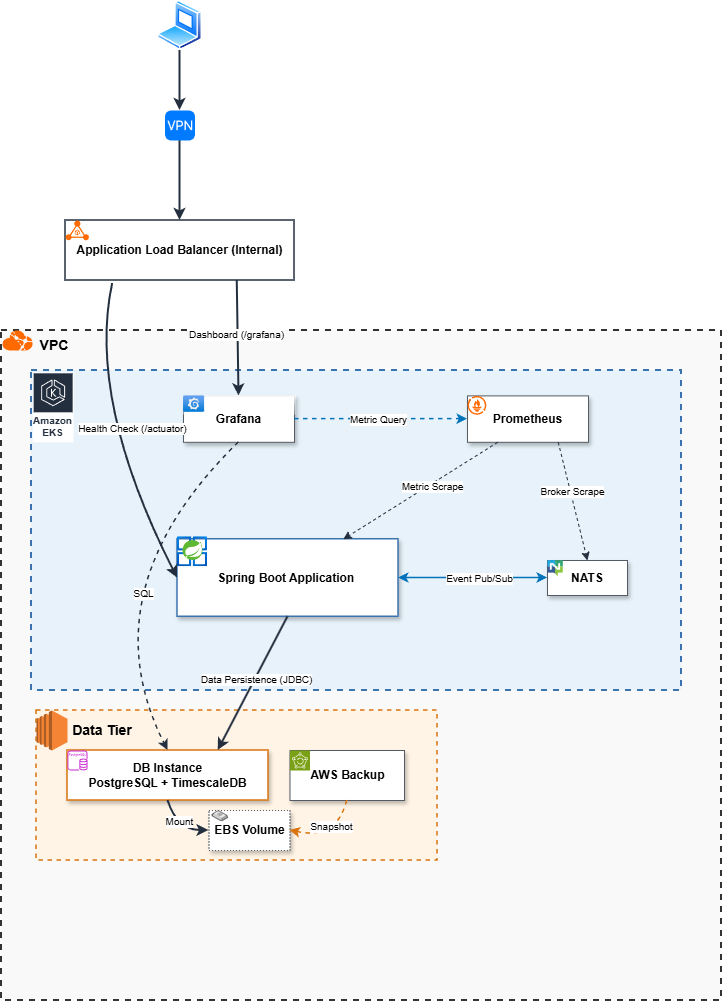
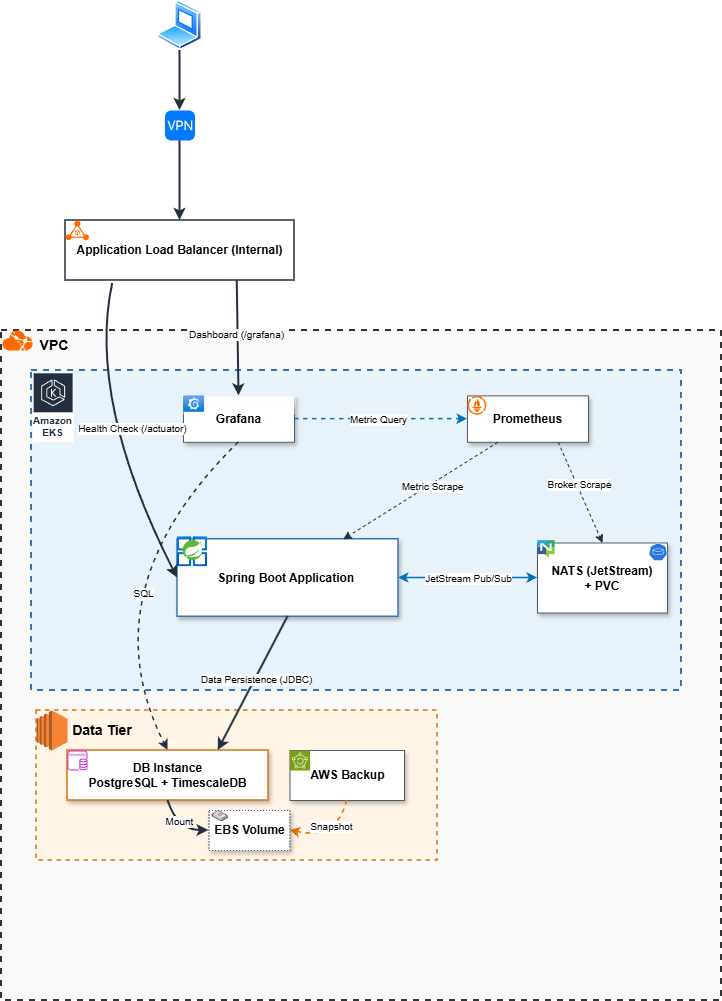
NATS JetStream 도입 으로 인한 수정

Changed region(s): [[0.7313, 0.4645, 0.9446, 0.6194], [0.5789, 0.5574, 0.7008, 0.5884]]

diff --git a/docs/task-a/README.md b/docs/task-a/README.md
@@ -9,7 +9,7 @@
 |---|---|---|
 | [`configmap.yaml`](configmap.yaml) | ConfigMap | 앱 환경 설정 (NATS_URL, 외부 DB 주소 등) |
 | [`secret.yaml`](secret.yaml) | Secret | DB password |
-| [`nats.yaml`](nats.yaml) | Deployment + Service | NATS 브로커 |
+| [`nats.yaml`](nats.yaml) | StatefulSet + Service + PVC | NATS 브로커 (JetStream 영속화 + prometheus-nats-exporter 사이드카) |
 | [`app.yaml`](app.yaml) | Deployment + Service | 이벤트 생성기 앱 (replicas 3) |
 | [`grafana.yaml`](grafana.yaml) | Deployment + Service | Grafana 시각화 대시보드 |
 | [`grafana-pvc.yaml`](grafana-pvc.yaml) | PersistentVolumeClaim | Grafana 대시보드·사용자 설정 영구 저장 |
@@ -19,18 +19,21 @@
 ## 2. 매니페스트별 역할 및 선택 이유
 
 ### `configmap.yaml`
-*   **역할**: 앱이 사용할 환경변수(NATS 주소, 외부 DB 주소, 브로커 모드 등)를 모아둔 ConfigMap
+*   **역할**: 앱이 사용할 환경변수(NATS 주소, JetStream stream/consumer 이름, 외부 DB 주소, 브로커 모드 등)를 모아둔 ConfigMap
 *   **선택 이유**: 환경별(개발, 스테이징, 운영)로 바뀌는 설정값을 코드와 분리. ConfigMap만 다른 값으로 갈아끼우면 코드를 다시 빌드하지 않아도 환경 전환이 가능
+*   **JetStream 항목 노출 범위**: stream/consumer 이름은 환경별 격리(예: `EVENTS_STG`)가 필요할 수 있어 ConfigMap에 노출. 반면 ack-wait·max-deliver 같은 튜닝값은 시스템 상수에 가까워 application.yml 기본값을 그대로 사용
 
 ### `secret.yaml`
 *   **역할**: DB 비밀번호를 담은 Secret
 *   **선택 이유**: 민감 정보를 ConfigMap과 분리해서 별도 접근 권한을 걸 수 있음. 비밀번호가 로그나 명령어 결과에 그대로 노출되는 것 방지
 
-### `nats.yaml` (Deployment + Service)
-*   **역할**: NATS 브로커 컨테이너 1대, 다른 컴포넌트가 접근할 수 있는 Service
+### `nats.yaml` (StatefulSet + Service + PVC + exporter 사이드카)
+*   **역할**: NATS 브로커 컨테이너 1대(JetStream 활성화), prometheus-nats-exporter 사이드카, 다른 컴포넌트가 접근할 Service, stream/consumer 영속화 디스크
 *   **선택 이유**:
-    *   **Deployment**: NATS는 메시지를 메모리에서만 처리해서 데이터를 보관할 디스크가 필요 없음. 그래서 일반 Deployment로 충분 (나중에 디스크 영속화가 필요해지면 StatefulSet으로 변경)
-    *   **Service**: 앱이 nats-service:4222 라는 이름으로 안정적으로 접속할 수 있도록 통로 역할
+    *   **StatefulSet**: JetStream stream과 consumer 진행상태가 디스크에 기록되므로 Pod 재시작 시에도 동일 PVC가 안정적으로 재연결되도록 StatefulSet 사용 (Deployment + PVC 조합은 Pod 이름이 바뀔 때 결합 보장이 약함)
+    *   **PVC (1Gi)**: WorkQueuePolicy + MaxAge 1시간 정책상 ack된 메시지는 즉시 삭제되므로 디스크 사용량은 consumer lag만큼만 누적. 1Gi로 충분
+    *   **Service**: 앱은 4222(client), Prometheus는 7777(metrics), 헬스체크는 8222(monitoring)로 포트별 역할 분리
+    *   **exporter 사이드카**: NATS의 `/varz`·`/jsz`(JSON)를 `prometheus-nats-exporter`가 `/metrics`로 재노출 → consumer lag·ack 처리량을 Grafana로 시각화. 사이드카로 NATS Pod와 라이프사이클 동기화
 
 ### `app.yaml` (Deployment + Service)
 *   **역할**: 이벤트 생성기 앱 컨테이너 3대, 클러스터 내부에서 접근할 Service
@@ -49,10 +52,11 @@
     *   **LoadBalancer Service**: 사용자가 외부에서 대시보드에 접속해야 하므로 외부 노출 (EKS면 ALB로 자동 매핑)
 
 ### `prometheus.yaml` + `prometheus-pvc.yaml` (Deployment + Service + ConfigMap + PVC)
-*   **역할**: 시스템·앱 메트릭(JVM·요청량·NATS 메시지 처리량 등)을 시계열로 수집·저장하는 Prometheus 서버
+*   **역할**: 시스템·앱·메시지 브로커 메트릭(JVM·요청량·JetStream consumer lag·ack 처리량 등)을 시계열로 수집·저장하는 Prometheus 서버
 *   **선택 이유**:
     *   **Deployment (replicas 1)**: PVC가 ReadWriteOnce라 1대만 운영. 단일 노드로 충분
     *   **ConfigMap**: `prometheus.yml` 설정 파일을 Pod에 마운트. 어떤 endpoint를 어느 주기로 scrape할지 명시
     *   **PVC**: 시계열 메트릭 영구 저장. 보관 기간(14일)을 인자로 지정해 디스크 사용량 통제
     *   **ClusterIP Service**: Grafana가 클러스터 내부에서 데이터소스로만 연결하면 되므로 외부 노출 불필요
-    *   **관제 축 분리**: 비즈니스 로그는 PostgreSQL → Grafana, 시스템 메트릭은 Prometheus → Grafana로 두 축을 분리해 통합 관제
+    *   **scrape job 2개**: `app-service:8080/actuator/prometheus`(앱 JVM·요청 메트릭) + `nats-service:7777/metrics`(exporter 사이드카가 노출하는 NATS·JetStream 메트릭)
+    *   **관제 축 분리**: 비즈니스 로그는 PostgreSQL → Grafana, 시스템·브로커 메트릭은 Prometheus → Grafana로 두 축을 분리해 통합 관제

diff --git a/README.md b/README.md
@@ -35,7 +35,8 @@ docker-compose up -d --build
 
 ### 2. 이벤트 발생 로직
 *   **수행 방식**: `@Scheduled`를 이용해 50ms~1000ms 사이의 랜덤한 간격으로 이벤트를 발행
-*   **전달 구조**: `MessagePublisher` 인터페이스를 두고 **NATS / Spring ApplicationEvent** 두 구현체를 `messaging.broker` 프로퍼티로 스위칭
+*   **전달 구조**: `MessagePublisher` 인터페이스를 두고 **NATS JetStream / Spring ApplicationEvent** 두 구현체를 `messaging.broker` 프로퍼티로 스위칭
+*   **유실 방지**: NATS는 JetStream(File storage, WorkQueuePolicy)으로 메시지 영속화 + Subscriber는 DB write 성공 후 ack 호출 → 브로커·앱 어느 쪽이 죽어도 처리 안 된 메시지는 살아남음
 
 ### 3. 상태 코드 및 가중치 상세
 운영 환경의 톤을 맞추기 위해 `application.yml`의 가중치 설정
@@ -149,13 +150,21 @@ SELECT add_retention_policy('api_logs', INTERVAL '30 days');
 
 *   **Dispatcher 스레드 분리**: NATS Dispatcher가 발행/구독을 다른 스레드에서 처리해 publisher가 subscriber 처리 시간에 영향받지 않음
 
-### 3. 장애 전파 방지 (Circuit Breaker)
+### 3. 메시지 유실 방지
+core NATS는 fire-and-forget이라 NATS 재시작·앱 크래시 시 in-flight 메시지가 그대로 사라짐. 로그성 데이터의 **신뢰 가능한 적재**는 파이프라인의 기본 요건이라 판단해 JetStream으로 전환
+
+*   **Stream 영속화**: File storage + `WorkQueuePolicy`. consumer가 ack한 메시지는 즉시 삭제되어 디스크 사용량 = consumer lag으로 운영 가시성 좋음
+*   **MaxAge 1시간**: 30일 장기 보관은 TimescaleDB가 담당. NATS는 DB 일시 장애 흡수용 짧은 버퍼 역할만 수행
+*   **DB write 후 ack**: 단순히 메시지 받자마자 ack 하면 `ApiLogBulkWriter` 메모리 큐에 쌓인 분량이 앱 크래시 시 유실. `Acknowledgment` 추상화를 도입해 bulk INSERT 성공 후 batch 단위로 일괄 ack, 실패 시 nak로 redeliver 처리
+*   **AckWait 30초 / MaxDeliver 5회**: bulk flush(1초) + DB write 여유. poison message가 무한 재배달되지 않도록 상한 설정
+
+### 4. 장애 전파 방지 (Circuit Breaker)
 NATS 등 메시지 브로커 장애 시 의미 없는 publish가 누적될 우려 존재
 *   Resilience4j로 publish 호출을 감싸 **5회 연속 실패 → OPEN(10초) → HALF_OPEN → 성공 시 CLOSED 복귀**
 *   OPEN 상태에선 호출이 차단돼 장애 중 무의미한 시도 차단
-*   **NATS publish 특성 보정**: jnats는 disconnect 상태에서도 publish가 내부 버퍼에 쌓이기만 해 호출이 즉시 성공처럼 관측. 이대로 두면 서킷브레이커 작동 불가하므로, publish 직전에 `Connection.Status`를 직접 체크해 `CONNECTED`가 아니면 예외로 던지도록 처리 — 이때부터 서킷이 정상 카운트
+*   JetStream `publish()`는 PublishAck를 동기 대기하므로 disconnect/타임아웃 시 자연스럽게 예외가 발생 — core NATS 시절 `Connection.Status` 수동 체크 워크어라운드는 불필요해져 제거
 
-### 4. 확장성 고려 — 사전 집계 뷰 (Continuous Aggregate)
+### 5. 확장성 고려 — 사전 집계 뷰 (Continuous Aggregate)
 데이터가 누적되면 24시간 윈도우 쿼리도 비용이 커지는데, TimescaleDB의 Continuous Aggregate로 하루 단위 사전 집계 뷰를 만들어두면 대시보드 응답 속도 개선 가능
 *   다만 효과 검증을 위해선 데이터를 장시간 누적해야 하는데 시뮬레이터를 그만큼 켜두기 어려워 적용 보류
 
